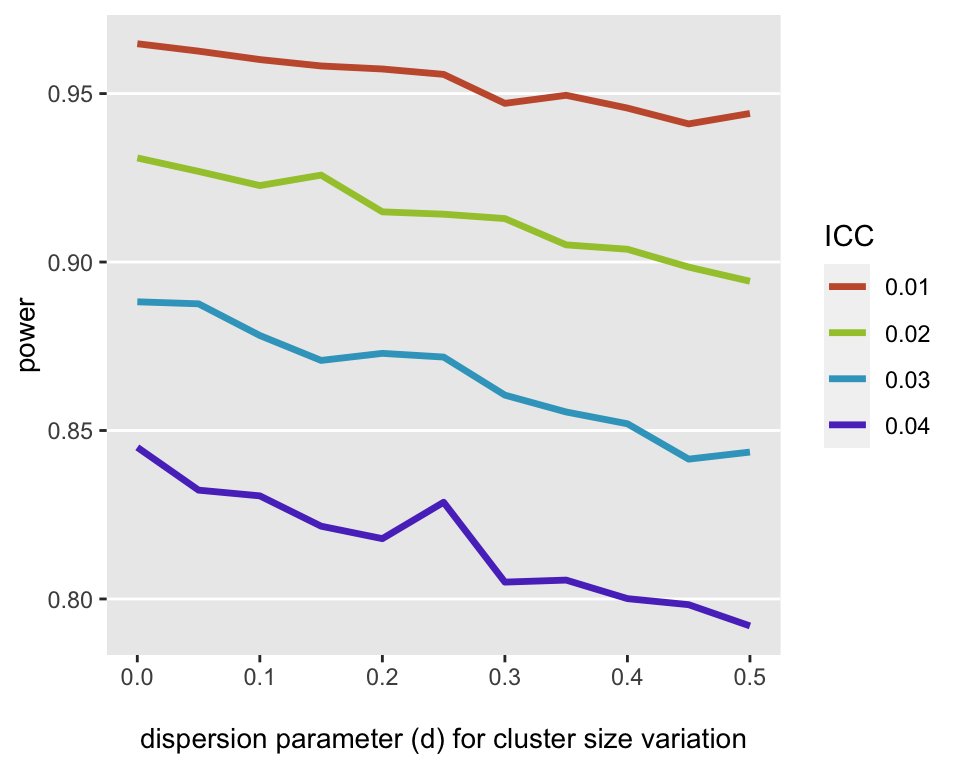
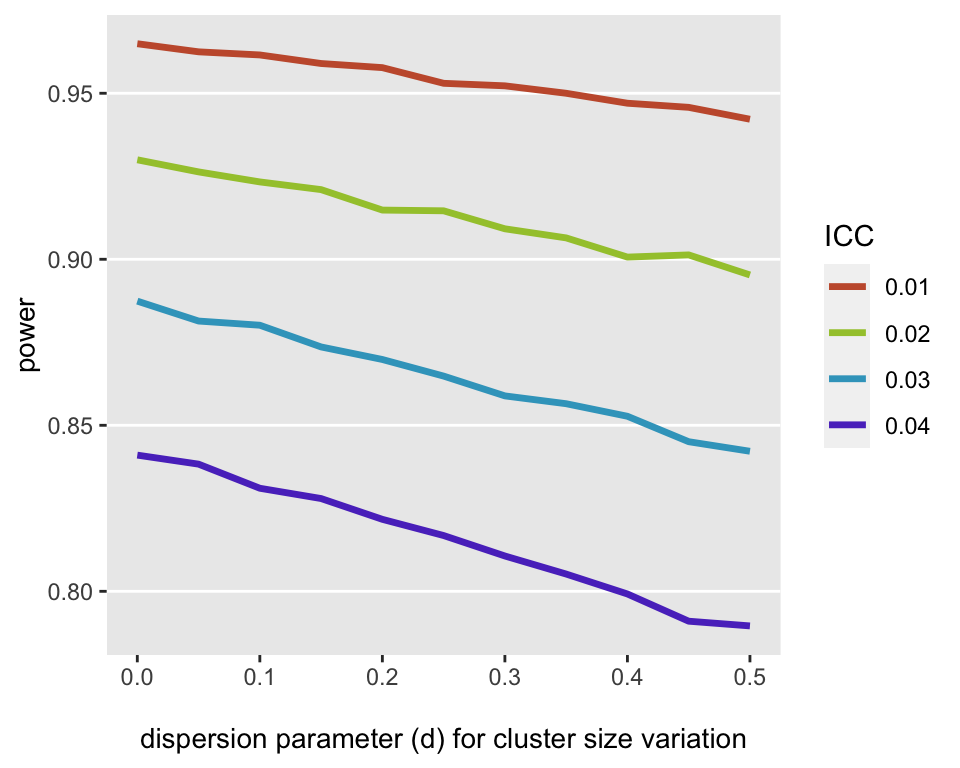
Updating simulation for post

diff --git a/content/post/2023-04-18-generating-variable-cluster-sizes-to-assess-power-in-cluster-randomize-trials/index.en.html b/content/post/2023-04-18-generating-variable-cluster-sizes-to-assess-power-in-cluster-randomize-trials/index.en.html
@@ -131,7 +131,7 @@ genData(10, d0, &quot;site&quot;)</code></pre>
 <p>Statistical power is directly influenced by overall variability of the outcome, which in this case includes the cluster and individual level variation. Specifically, power is a function of the intra-class (or intra-cluster) correlation (ICC), which can be calculated using
 <span class="math display">\[ICC = \frac{\sigma_a^2}{\sigma_a^2 + \sigma_e^2}.\]</span>
 In the simulations, ICCs ranged from <span class="math inline">\(0.1\)</span> to <span class="math inline">\(0.4\)</span>. Since <span class="math inline">\(\sigma_e^2\)</span> was fixed, the variance <span class="math inline">\(\sigma^2_a\)</span> was determined by the ICC.</p>
-<p>The focus of these simulations is to provide a figure that illustrates the impact of cluster-size variability (with constant total sample size) on power. I used different <em>dispersion</em> assumptions, ranging from 0 to 0.5, to generate different data sets. For each of the 44 ICC/dispersion parameter combinations, I generated 10,000 data sets and estimated a linear mixed effect model for each. The power was calculated for each combination by looking at the proportion of the <em>p-values</em> less than 0.05. The figure below shows the results; it appears that both higher ICCs and cluster size variability lead to reduced power:</p>
+<p>The focus of these simulations is to provide a figure that illustrates the impact of cluster-size variability (with constant total sample size) on power. I used different <em>dispersion</em> assumptions, ranging from 0 to 0.5, to generate different data sets. For each of the 44 ICC/dispersion parameter combinations, I generated 50,000 data sets (yes, I used a <a href="https://med.nyu.edu/research/scientific-cores-shared-resources/high-performance-computing-core" target="_blank">high performance computing core</a>) and estimated a linear mixed effect model for each. The power was calculated for each combination by looking at the proportion of the <em>p-values</em> less than 0.05. The figure below shows the results; it appears that both higher ICCs and cluster size variability lead to reduced power:</p>
 <p><img src="{{< blogdown/postref >}}index.en_files/figure-html/figure-1.png" width="480" /></p>
 <p><a name="addendum"></a></p>
 <p> </p>
